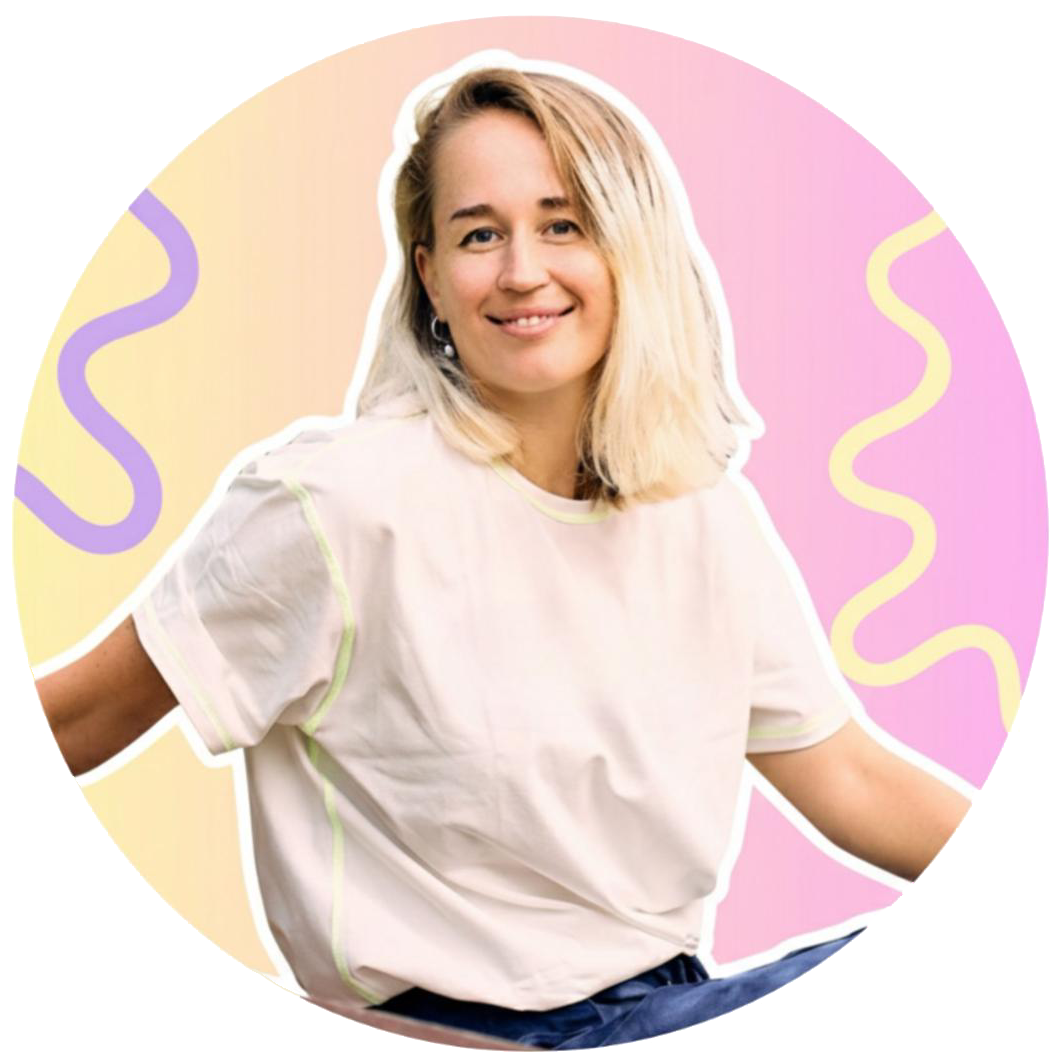
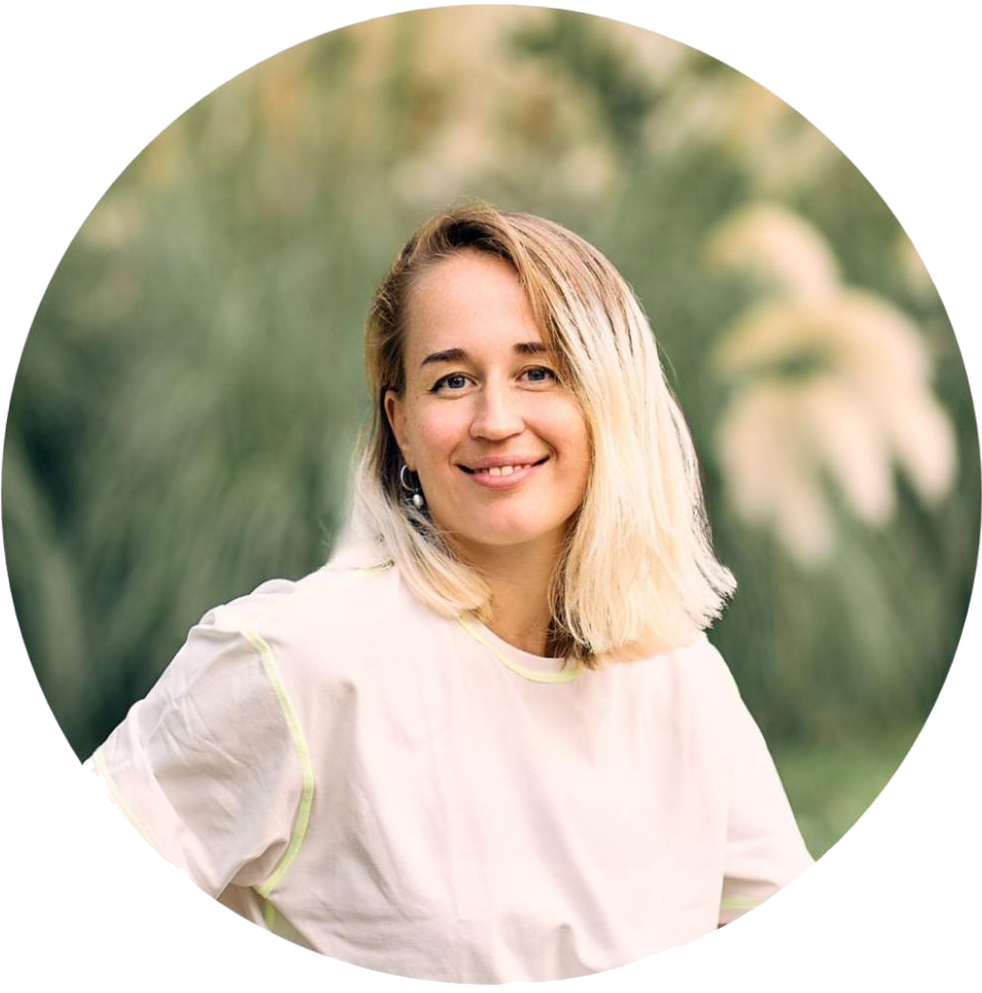
restyling fixes

diff --git a/src/components/ArticlesGrid/ArticlesGrid.tsx b/src/components/ArticlesGrid/ArticlesGrid.tsx
@@ -61,64 +61,72 @@ const ArticlesGrid = ({ openModal }: ArticlesGridProps) => {
   const hasMore = visibleCount < articles.length;
 
   return (
-    <section id="articles" className="p-4 md:p-8 gradient-footer mt-0">
-      <h2 className="text-2xl md:text-4xl font-bold text-center mb-5 md:mb-10 main-text">Latest Articles</h2>
-      <div className="slider-container relative max-w-[1440px] m-auto">
-        <div className="columns-1 gap-4 md:columns-2 md:gap-4 lg:columns-3">
-          {visibleArticles.map((article) => (
-            <div key={article.title} className="break-inside-avoid pb-4 md:pb-4">
-              <Card
-                className="group flex flex-col h-full block-shadow !border-gray-200 bg-white dark:bg-white p-1 cursor-pointer transition-transform duration-200 md:hover:scale-[1.03]"
-                theme={{
-                  root: {
-                    children: 'flex h-full flex-col justify-center gap-4 p-0 relative overflow-hidden pb-0 md:pb-6',
-                  },
-                }}
-                renderImage={() => (
-                  <img
-                    className="max-h-[200px] object-cover rounded-tl-md rounded-tr-md object-top w-full mb-2"
-                    width={500}
-                    height={500}
-                    src={article.src}
-                    alt={article.title}
-                    loading="lazy"
-                  />
-                )}
-              >
-                <h3 className="text-lg md:text-xl font-bold tracking-tight main-text px-2">
-                  {article.title}
-                </h3>
-                <p className="text-xs font-normal text-gray-700 dark:text-gray-700 px-2">
-                  {article.preview}
-                </p>
-                <div
-                  className="mt-auto action-gradient rounded-b-md w-full flex lg:mt-6 transition-all duration-600 ease-out md:gap-0 md:absolute md:-bottom-12 md:group-hover:bottom-0 bg-white"
+    <section id="articles" className="bg-[#fbfbfb] mt-0 py-4 md:py-8">
+      <div className="max-w-[1440px] mx-auto px-4 lg:px-6">
+        <h2 className="text-xl md:text-2xl font-normal text-left mb-2.5 md:mb-5 main-text">
+          Latest Articles
+        </h2>
+        <div className="slider-container relative">
+          <div className="grid grid-cols-1 md:grid-cols-2 lg:grid-cols-3 gap-3">
+            {visibleArticles.map((article) => (
+              <article key={article.title} className="relative h-[430px]">
+                <Card
+                  className="group relative flex flex-col h-full card-shadow !border-white hover:!border-gray-300 bg-white dark:bg-white p-1.5 overflow-hidden transition-colors duration-200"
+                  theme={{
+                    root: {
+                      children: 'flex h-full flex-col gap-3 p-0 overflow-hidden pb-3',
+                    },
+                  }}
                 >
-                  <a
-                    href={article.source}
-                    target="_blank"
-                    rel="noopener noreferrer"
-                    className="w-full md:flex-1 px-4 py-2 rounded-b-md transition text-center flex items-center justify-center text-white hover:text-white duration-600 action-hover-gradient"
-                  >
-                    View Source
-                  </a>
-                  {article.remoteAccess && (
-                    <>
-                      <span className="w-px bg-white self-stretch" aria-hidden="true" />
-                      <button
-                        onClick={() => openModal(article.source)}
-                        className="w-full md:flex-1 px-4 py-2 transition text-white action-hover-gradient rounded-b-md"
+                  <div className="flex h-full flex-col gap-3">
+                    <div className="relative h-[200px] w-full overflow-hidden rounded-tl-md rounded-tr-md">
+                      <img
+                        className="h-full w-full object-cover object-top"
+                        width={500}
+                        height={500}
+                        src={article.src}
+                        alt={article.title}
+                        loading="lazy"
+                      />
+                      <div
+                        className="pointer-events-none absolute inset-0 bg-[#e1eec5] opacity-1000"
+                        aria-hidden="true"
+                      />
+                    </div>
+                    <h3 className="text-lg md:text-xl font-normal tracking-tight main-text px-2">
+                      <a
+                        href={article.source}
+                        target="_blank"
+                        rel="noopener noreferrer"
+                        className="after:absolute after:inset-0 after:content-[''] focus:outline-none focus-visible:ring-2 focus-visible:ring-offset-2"
                       >
-                        Read Here
+                        {article.title}
+                      </a>
+                    </h3>
+                    <p className="text-xs font-normal text-gray-700 dark:text-gray-700 px-2 line-clamp-4">
+                      {article.preview}
+                    </p>
+                    {article.remoteAccess && (
+                      <button
+                        type="button"
+                        onClick={(e) => {
+                          e.preventDefault();
+                          e.stopPropagation();
+                          openModal(article.source);
+                        }}
+                        aria-label="Read article here in modal"
+                        className="relative z-10 mx-2 mt-auto inline-flex items-center justify-center rounded-full border border-white bg-white px-6 py-3 text-sm font-semibold text-black shadow-[0_3px_10px_rgba(0,0,0,0.08)] transition-colors duration-200 hover:border-gray-300"
+                      >
+                        Read here
                       </button>
-                    </>
-                  )}
-                </div>
-              </Card>
-            </div>
-          ))}
+                    )}
+                  </div>
+                </Card>
+              </article>
+            ))}
+          </div>
+          {hasMore && <div ref={sentinelRef} className="h-4 w-full" aria-hidden="true" />}
         </div>
-        {hasMore && <div ref={sentinelRef} className="h-4 w-full" aria-hidden="true" />}
       </div>
     </section>
   );

diff --git a/src/components/Hero/Hero.tsx b/src/components/Hero/Hero.tsx
@@ -4,7 +4,6 @@ import Image from 'next/image';
 const HeroSection = () => {
   return (
     <div className="relative py-5 md:py-10 md:pb-0">
-      <div className="gradient absolute left-1/2 -translate-x-1/2 top-0 w-screen h-full" />
       <div className="block text-center sm:flex w-full justify-center md:justify-start z-10 relative items-center max-w-[1440px] m-auto px-4 lg:px-6">
         <Image
           width={200}
@@ -17,8 +16,8 @@ const HeroSection = () => {
           alt="avatar"
         />
         <div className="mx-auto sm:mx-0 sm:my-0 mb-0 sm:mb-4 p-2 w-fit main-text">
-          <h1 className="text-2xl md:text-4xl font-bold kitty-block text-center sm:text-left">
-            SEO Content Writer and Ghostwriter
+          <h1 className="text-2xl md:text-4xl font-normal kitty-block text-center sm:text-left">
+            SEO Content Writer
           </h1>
           <p className="text-center sm:text-left text-md md:text-lg z-10 relative">
             Ksenia Melnychenko 

diff --git a/styles/global.css b/styles/global.css
@@ -6,7 +6,25 @@
 @import url('https://fonts.googleapis.com/css2?family=Roboto:ital,wght@0,100..900;1,100..900&display=swap');
 
 html {
-  font-family: "Arimo", sans-serif;
+  font-family: "Roboto", sans-serif;
+}
+
+body {
+  font-family: inherit;
+}
+
+:root {
+  --general--shadow-01: rgba(0, 0, 0, 0.10);
+  --general--shadow-01-hover: rgba(0, 0, 0, 0.16);
+}
+
+.card-shadow {
+  box-shadow: 0 2px 6px 0 var(--general--shadow-01);
+  transition: box-shadow 200ms ease;
+}
+
+.card-shadow:hover {
+  box-shadow: 0 2.4px 7.2px 0 var(--general--shadow-01-hover);
 }
 
 .slick-next:before,
@@ -78,7 +96,5 @@ html {
 }
 
 .main-text {
-  color: #39406c;
-  /* font-family: "Arimo", sans-serif; */
-  font-family: "Roboto", sans-serif;
+  color: #000000;
 }

diff --git a/pages/index.tsx b/pages/index.tsx
@@ -25,7 +25,7 @@ export default function Home() {
   };
 
   return (
-    <div className="bg-gray-50 min-h-screen font-sans pt-0 md:pt-0 py-3 md:py-4 pb-16 md:pb-24 relative">
+    <div className="bg-[#fbfbfb] text-black min-h-screen pt-0 md:pt-0 py-3 md:py-4 pb-16 md:pb-24 relative">
       <SeoHead />
       <HeroSection />
       <ArticlesGrid openModal={openModal} />

diff --git a/src/components/Footer/Footer.tsx b/src/components/Footer/Footer.tsx
@@ -4,7 +4,7 @@ const Footer: React.FC = () => {
   return (
     <footer
       id="contact"
-      className="gradient text-white py-4 md:py-8 text-center absolute w-full bottom-0 left-0"
+      className="bg-[#fbfbfb] text-black py-4 md:py-8 text-center absolute w-full bottom-0 left-0"
     >
       <div className="w-full flex justify-center items-center">
         <a

diff --git a/AGENTS.md b/AGENTS.md
@@ -1,0 +1,143 @@
+# AGENTS.md — Writer Portfolio
+
+Persistent guidance for AI agents working on this codebase.
+
+---
+
+## Project Overview
+
+A single-page **Next.js writer portfolio** that lists articles with lazy-loading cards, an iframe modal for inline reading, and a hero section. Deployed to **Cloudflare Pages** via `@cloudflare/next-on-pages`.
+
+---
+
+## Tech Stack
+
+| Layer | Technology |
+|-------|-----------|
+| Framework | Next.js (Pages Router) |
+| Language | TypeScript (`strict: false`) |
+| Styling | Tailwind CSS 3 + Flowbite / flowbite-react |
+| Animation | Framer Motion |
+| Modal | react-modal (iframe for external articles) |
+| Carousel | react-slick |
+| Deployment | Cloudflare Pages + wrangler |
+| Linting | ESLint 9 + TypeScript / React / import / a11y plugins |
+| Formatting | Prettier (`printWidth: 100`, `tabWidth: 2`, single quotes, semicolons, trailing commas) |
+
+---
+
+## Key Commands
+
+```bash
+npm run dev          # Dev server on port 3001
+npm run build        # Next.js production build
+npm run lint         # ESLint check
+npm run lint:fix     # ESLint auto-fix
+npm run format       # Prettier format all files
+npm run pages:build  # Cloudflare Pages build (next-on-pages)
+npm run preview      # Local Cloudflare Pages preview
+npm run deploy       # Deploy to Cloudflare Pages
+```
+
+---
+
+## Directory Structure
+
+```
+writer-portfolio/
+├── pages/               # Next.js Pages Router
+│   ├── _app.tsx         # App shell (imports global CSS)
+│   ├── _document.tsx    # Custom Document
+│   └── index.tsx        # Main page (client component, modal state lives here)
+├── src/
+│   └── components/      # One folder per component
+│       ├── ArticlesGrid/
+│       ├── ArticleModal/
+│       ├── Footer/
+│       ├── Hero/
+│       └── SeoHead/
+├── source/
+│   └── articles.js      # Static article data (source of truth for cards)
+├── styles/
+│   └── global.css       # Tailwind layers + custom classes + react-slick overrides
+├── public/              # Static assets (images, favicon)
+├── next.config.js
+├── tailwind.config.js
+├── tsconfig.json
+└── wrangler.jsonc
+```
+
+---
+
+## Component Conventions
+
+- **File layout**: `src/components/ComponentName/ComponentName.tsx` — one folder per component, default export.
+- **Typing**: Use explicit `type` for props (e.g. `type ArticlesGridProps = { ... }`). Mixing `React.FC<Props>` and plain function signatures is acceptable.
+- **React import**: Import `React` explicitly at the top of every component file.
+- **Path aliases**: Prefer `@components/ComponentName` over relative paths. Defined in `tsconfig.json`:
+  - `@components/*` → `src/components/*`
+  - `@hooks/*`, `@lib/*`, `@config/*` (reserved for future use)
+- Avoid adding new folders directly under `src/` without updating `tsconfig.json` path aliases.
+
+---
+
+## Styling Conventions
+
+- Use **Tailwind utility classes** for layout, spacing, responsive breakpoints (`md:`, `lg:`), and typography.
+- Custom one-off styles belong in `styles/global.css` as named classes (e.g. `.gradient`, `.block-shadow`).
+- Flowbite `Card` is used for article tiles; pass a `theme` override object to adjust internal layout — do not override Flowbite internals via global CSS.
+- Use **`next/image`** (`Image`) for the hero and any new images that benefit from optimisation. Article card thumbnails use plain `<img>` for simplicity (external URLs not in the allowlist).
+- Only `source.unsplash.com` is in `next.config.js` `images.domains`. Add new remote domains there if switching to `next/image` for external sources.
+
+---
+
+## Data Layer
+
+- Article data lives in **`source/articles.js`** as a plain JS array. There is no CMS or API.
+- Each article object fields: `title`, `description`, `image`, `url`, `source`, `remoteAccess` (bool).
+- `remoteAccess: true` → "Read Here" button opens an iframe modal. `false` → "View Source" external link only.
+
+---
+
+## Page Architecture
+
+`pages/index.tsx` is the single marketing page. It:
+1. Holds `useState` for the selected article / modal open state.
+2. Renders `<SeoHead>`, `<Hero>`, `<ArticlesGrid>`, `<ArticleModal>`, `<Footer>` in order.
+3. Is marked `'use client'` at the top (needed for hooks inside Pages Router).
+
+`ArticlesGrid` uses `IntersectionObserver` with a sentinel div to progressively reveal cards in batches — do not remove this pattern when modifying the grid.
+
+---
+
+## Accessibility
+
+- Always provide `aria-label` on icon-only buttons and links (see `Footer` LinkedIn link and modal close button as examples).
+- `ArticleModal` calls `Modal.setAppElement('#__next')` — keep this in place to avoid screen-reader issues.
+- Use semantic HTML elements (`<section>`, `<footer>`, `<h1>`–`<h3>`) rather than generic `<div>` where appropriate.
+
+---
+
+## Cloudflare Pages Notes
+
+- Build output goes to `.vercel/output/static` (generated by `next-on-pages`).
+- `wrangler.jsonc` sets `nodejs_compat` compatibility flag — required for Next.js edge APIs.
+- Do not use Node-only APIs (e.g. `fs`, `path`) in component or page code; they are not available in the Cloudflare Workers runtime.
+- `NEXT_PUBLIC_GA_ID` env var enables Google Analytics via `SeoHead` — set it in Cloudflare Pages environment variables for production.
+
+---
+
+## Environment Variables
+
+| Variable | Purpose |
+|----------|---------|
+| `NEXT_PUBLIC_GA_ID` | Google Analytics measurement ID (optional) |
+
+---
+
+## What NOT to Do
+
+- Do not migrate to the **App Router** without a deliberate decision — the project is Pages Router only.
+- Do not add server-side `getServerSideProps` — Cloudflare Pages static output does not support it. Use `getStaticProps` or client-side fetching.
+- Do not import from `../../../source/articles` using deep relative paths — always use `@components/...` or move data to a proper `src/data/` folder with a path alias.
+- Do not commit `.vercel/` or `.wrangler/` output directories.
